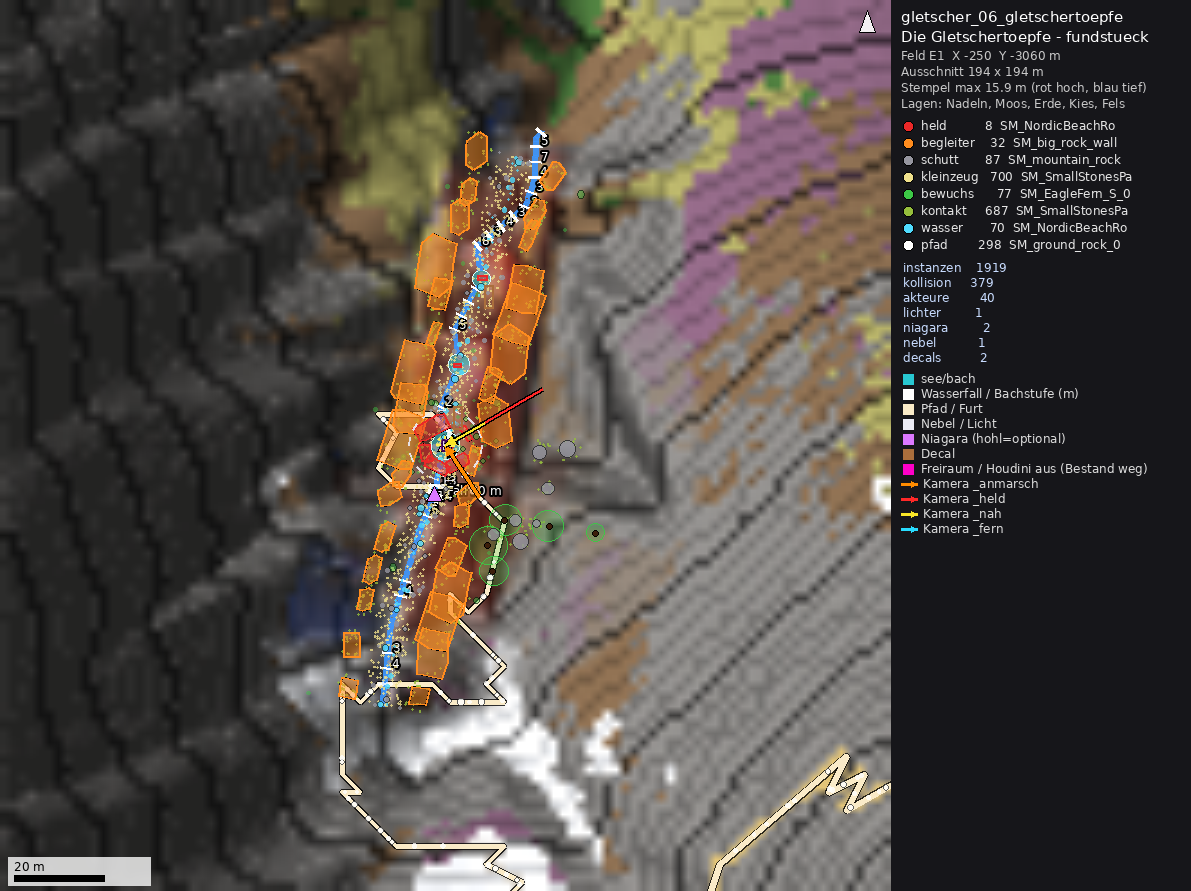
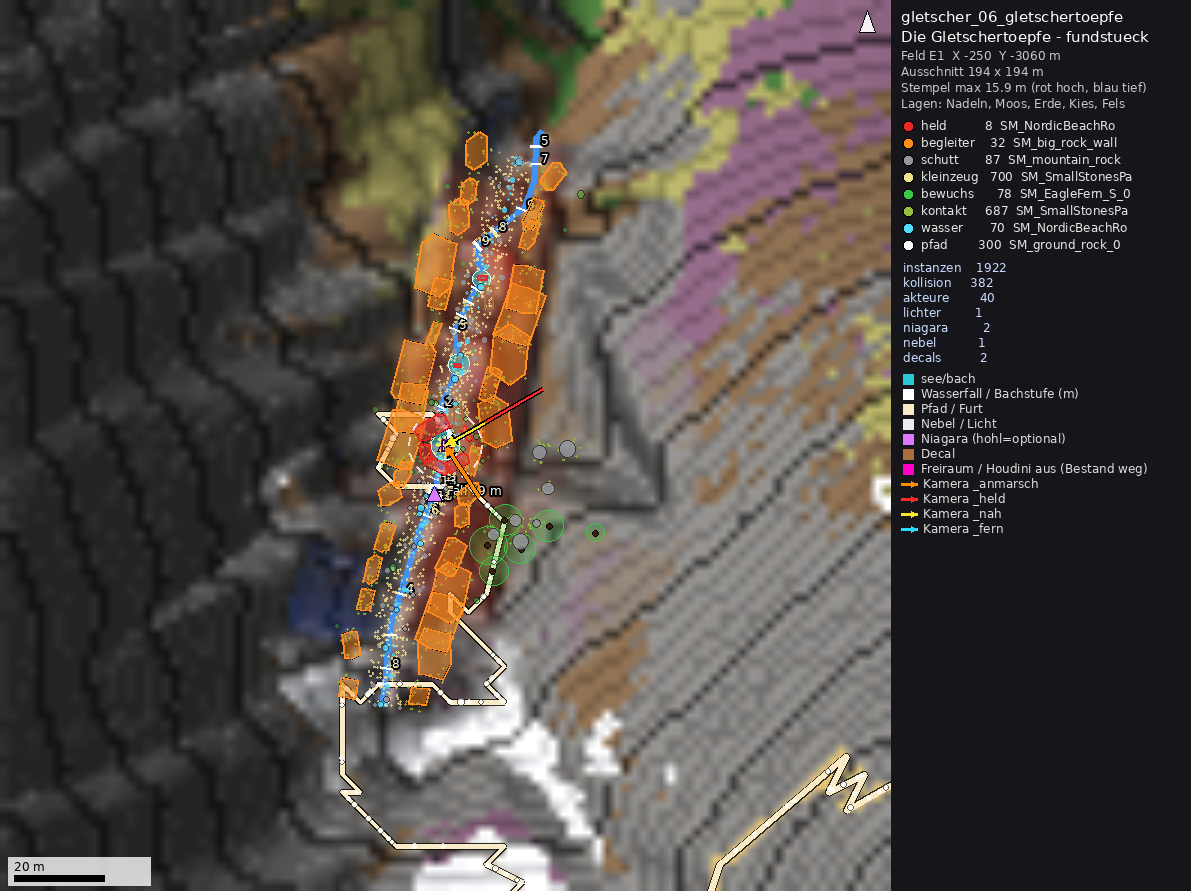
Auftrag 13f: Zwischenstand (WIP)
Claude-Session: https://claude.ai/code/session_012h1LYW6NJeQxhd7im8Kkes

diff --git a/recherche/antworten/skripte/sehens_lib/rezept.py b/recherche/antworten/skripte/sehens_lib/rezept.py
@@ -21,7 +21,6 @@ Richtungen ("rspec", Kompassgrad 0 = Nord, 90 = Ost): Zahl | "hangab" | "hangauf
 """
 
 import math
-import os as _os
 
 import numpy as np
 
@@ -536,7 +535,7 @@ class OrtKontext:
                 # 13f: nie neben den eigenen Lauf zurueck (Kehre/Schleife) - Abstand zu allen frueheren Punkten
                 Pa = np.asarray(alt + pts[:-1], np.float64)
                 dmin = np.min(np.hypot(kx[:, None] - Pa[None, :, 0], ky[:, None] - Pa[None, :, 1]), axis=1)
-                kz = np.where(dmin < 0.9 * schritt_m + 1.0, np.inf, kz)
+                kz = np.where(dmin < 0.9 * schritt_m + 1.5, np.inf, kz)
             if self.see:
                 # 13f A4: ein Bach laeuft nicht zurueck in ein geplantes Seebecken und nicht am Ufer entlang (Puffer
                 # 2 Zellen + 1 m um den Umriss) - der Abfluss fuehrt vom Auslass weg
@@ -727,6 +726,11 @@ class OrtKontext:
         nx_, ny_ = ty / tn, -tx / tn
         g_l = np.asarray(self.boden(xa + nx_ * du, ya + ny_ * du), np.float64)
         g_r = np.asarray(self.boden(xa - nx_ * du, ya - ny_ * du), np.float64)
+        # Reserve (Koordinator 13f): die Pruefstelle mischt bilinear die Zelle dahinter - auch dort muss der Ring
+        # (hoechstens WULST_MAX_M) den Spiegel erreichen
+        du2 = du + 0.75 * self.welt.zelle_m
+        g_l = np.minimum(g_l, np.asarray(self.boden(xa + nx_ * du2, ya + ny_ * du2), np.float64))
+        g_r = np.minimum(g_r, np.asarray(self.boden(xa - nx_ * du2, ya - ny_ * du2), np.float64))
         g_eff = np.minimum(g, np.minimum(g_l, g_r) + _bach.WULST_MAX_M - _bach.RING_UEBER_M - 0.05 +
                            _bach.EINBETTUNG_M)
         g_eff = np.maximum(g_eff, g - 2.0)      # hoechstens 2 m tiefer als die Mitte (Bach am Abbruch: Pruefer meldet)
@@ -740,6 +744,14 @@ class OrtKontext:
         # Furten/Schutz (A13): wo der Weg-/Ortsschutz den Stempel aufhebt, laeuft das Wasser flach ueber den Boden
         fs = self._schutz_faktor_bei(xa, ya)
         furt = fs < 0.98
+        # ebenso im Wasserschutz (Bestandswasser, z. B. Houdini-Gerinne ohne Netznamen): der Stempel ist dort
+        # aufgehoben, das Wasser laeuft flach ueber dem bestehenden Gerinne (nicht im Muendungskorridor)
+        fw = self._wasserschutz_bei(xa, ya)
+        im_bestand = (fw < 0.98) & ~furt
+        if ziel["art"] in ("bach", "fluss", "see", "teich"):
+            im_bestand &= sa < float(sa[-1]) - 8.0
+        furt_grund = np.where(furt, 0, np.where(im_bestand, 1, -1))
+        furt = furt | im_bestand
         boden_arr = np.where(furt, g + 0.03, -np.inf)
         W_boden = None
         if ziel.get("spiegel_m") is not None and ziel["art"] != "see_eigen":
@@ -798,6 +810,7 @@ class OrtKontext:
             self.stempel.bach_profil(np.stack([xa, ya], 1), sa, W, B, tiefe, ring_aus=ring_aus,
                                      tiefe_max_m=float(np.max(g - W)) + tiefe, tief_aus=tief_aus)
         furten = []
+        furt_gr = []
         if furt.any():
             k = 0
             while k < len(furt):
@@ -806,17 +819,31 @@ class OrtKontext:
                     while j + 1 < len(furt) and furt[j + 1]:
                         j += 1
                     furten.append((float(sa[k]), float(sa[j])))
+                    furt_gr.append("bestand" if furt_grund[k] == 1 else "weg")
                     k = j + 1
                 else:
                     k += 1
-            hinweise.append("%d Furt(en) im Weg-/Ortsschutz (Wasser flach ueber dem Boden)" % len(furten))
+            nb = furt_gr.count("bestand")
+            if len(furten) - nb:
+                hinweise.append("%d Furt(en) im Weg-/Ortsschutz (Wasser flach ueber dem Boden)" % (len(furten) - nb))
+            if nb:
+                hinweise.append("%d Stueck(e) im Wasserschutz des Bestands (flach ueber dem bestehenden Gerinne)" % nb)
         self.anker["bach_%s_anfang" % wid] = (float(pts[0][0]), float(pts[0][1]))
         self.anker["bach_%s_ende" % wid] = (float(pts[-1][0]), float(pts[-1][1]))
         self.bach_plan[wid] = {"pts": pts, "s": sa, "x": xa, "y": ya, "W": W, "stufen": stufen, "ziel": ziel,
                                "B": B, "tiefe": tiefe, "start_see": start_see, "end_see": end_see, "furten": furten,
-                               "offen_s": offen_s, "g_vor": g}
+                               "offen_s": offen_s, "g_vor": g, "furt_grund": furt_gr}
         for h in hinweise:
             self.melde(HINWEIS, "bach %s: %s" % (wid, h))
+
+    def _wasserschutz_bei(self, x, y):
+        """Wasserschutz-Faktor (0 = Bestandswasser hebt den Stempel auf) an Weltpunkten; ist_wasser/Korridore frei."""
+        g = self.r.get("gelaende") or {}
+        if not g.get("schutz", True) or g.get("wasser_frei", False):
+            return np.ones(np.shape(x))
+        aus = self._ausnahme_maske(wasser_ausnahmen=True)
+        f = self.stempel.schutz_faktor(float(g.get("schutz_weg_m", 3.0)), True, 4.0, aus, nur_wasser=True)
+        return _st._bilinear_fenster(f, self.stempel.fe, self.welt, x, y, 1.0)
 
     def _schutz_faktor_bei(self, x, y):
         """Schutzfaktor (0 = Weg-/Ortsschutz hebt den Stempel auf, 1 = frei) an Weltpunkten."""
@@ -938,11 +965,16 @@ class OrtKontext:
             Ln = _st.polylinie_laenge([[x, y]] + neu) if neu else 0.0
         if Ln < mehr_m - 1.0:
             ax, ay = (neu[-1] if neu else (x, y))
-            alt = np.asarray(pts + neu, np.float64)
+            alle = [list(map(float, q_[:2])) for q_ in pts + neu]
+            kum_ = list(_bach.bogen(np.asarray(alle, np.float64)))
             for q in self._tiefenlinie(ax, ay, mehr_m - Ln):
-                if np.min(np.hypot(alt[:, 0] - q[0], alt[:, 1] - q[1])) < 3.0:
-                    break           # Tiefenlinie laeuft zurueck an den eigenen Lauf
+                sq = kum_[-1] + math.hypot(q[0] - alle[-1][0], q[1] - alle[-1][1])
+                A_ = np.asarray(alle, np.float64)[np.asarray(kum_) < sq - 6.0]   # fruehere Stuecke, nicht die letzten 6 m
+                if len(A_) and np.min(np.hypot(A_[:, 0] - q[0], A_[:, 1] - q[1])) < 3.3:
+                    break           # Tiefenlinie laeuft zurueck an den eigenen Lauf (Kehre)
                 neu.append(q)
+                alle.append([float(q[0]), float(q[1])])
+                kum_.append(sq)
         out = [list(p) for p in pts]
         for p in neu:
             out.append([float(p[0]), float(p[1])])
@@ -1067,7 +1099,7 @@ class OrtKontext:
                 e = self._bach_eintrag(w)
                 if e is not None:
                     self.wasser.append(e)
-                    if w.get("furt") and (self.bach_plan.get(w.get("id")) or {}).get("furten"):
+                    if w.get("furt") and "weg" in ((self.bach_plan.get(w.get("id")) or {}).get("furt_grund") or []):
                         self._furt_steine(w)
             elif t == "wasserfall":
                 kante = self.linie(w["kante"])
@@ -1108,7 +1140,10 @@ class OrtKontext:
         kum = _bach.bogen(P)
         punkte = []
         ab = float(fr.get("abstand_m", 0.9))
-        for a_, b_ in pl["furten"]:
+        gruende = pl.get("furt_grund") or ["weg"] * len(pl["furten"])
+        for (a_, b_), gr_ in zip(pl["furten"], gruende):
+            if gr_ != "weg":
+                continue            # Trittsteine nur an Wegen/Orten, nicht im Bestandsgerinne
             sm = 0.5 * (a_ + b_)
             x, y = _bach.punkt_bei(P, kum, sm)
             x2, y2 = _bach.punkt_bei(P, kum, min(sm + 0.5, kum[-1]))
@@ -1175,9 +1210,6 @@ class OrtKontext:
         zz = float(self.welt.zelle_m)
         tol_ = 0.02 if zz <= 1.0 else 0.02 + 0.2 * (zz - 1.0)
         ueber = (bett - z > tol_) & frei
-        if ueber.any() and _os.environ.get("SEHENS_DBG_UEBER"):
-            for k_ in np.nonzero(ueber)[0]:
-                print("UEBER", wid, "s %.1f bett %.2f z %.2f" % (sk[k_], bett[k_], z[k_]), file=__import__("sys").stderr)
         if ueber.any():
             self.melde(WARNUNG, "bach %s: Bett an %d von %d Punkten ueber dem Spiegel (bis %.2f m) - Stempel geschwaecht?"
                        % (wid, int(ueber.sum()), len(sk), float((bett - z)[ueber].max())))
@@ -1207,12 +1239,15 @@ class OrtKontext:
                             "(Regelwerk Auftrag 15), groesste %.1f m" % (len(pl["stufen"]), mx))
         if pl["furten"]:
             e["furten"] = []
-            for a_, b_ in pl["furten"]:
+            gruende = pl.get("furt_grund") or ["weg"] * len(pl["furten"])
+            for (a_, b_), gr_ in zip(pl["furten"], gruende):
                 xa_, ya_ = _bach.punkt_bei(P, kum, a_)
                 xb_, yb_ = _bach.punkt_bei(P, kum, b_)
                 e["furten"].append({"von_cm": [round(float(xa_) * 100), round(float(ya_) * 100)],
                                     "bis_cm": [round(float(xb_) * 100), round(float(yb_) * 100)],
-                                    "grund": "Weg-/Ortsschutz (3 m): Wasser laeuft flach ueber den Boden (Furt)"})
+                                    "grund": "Weg-/Ortsschutz (3 m): Wasser laeuft flach ueber den Boden (Furt)"
+                                    if gr_ == "weg" else
+                                    "Wasserschutz des Bestands: Wasser laeuft flach ueber dem bestehenden Gerinne"})
         if pl["offen_s"] is not None:
             xo, yo = _bach.punkt_bei(P, kum, pl["offen_s"])
             e["muendung_offen_ab_cm"] = [round(float(xo) * 100), round(float(yo) * 100)]

diff --git a/recherche/antworten/skripte/sehens_lib/bach.py b/recherche/antworten/skripte/sehens_lib/bach.py
@@ -7,12 +7,14 @@ Ein Bach (Regel "wasser" mit typ "bach") wird in drei Schritten gebaut:
      Tiefenlinie weiter, bis ein Epic-Gewaesser erreicht ist, oder 'versickert' mit mindestens 25 m Laenge.
      Ein Bachende liegt nie unter dem Spiegel des Zielgewaessers.
   2. Spiegel als Treppe (A8, Regelwerk Auftrag 15 'gefaelle_regeln.json'): Becken (<= 3 % Gefaelle, >= 3 m lang,
-     Laenge nach stufen.abstand_L / becken.laenge_min) und Stufen (Lippe -> Fuss <= 1 m). Die Stufen stehen
-     explizit im Bach ("stufen": [{"lippe_cm", "fuss_cm", "fall_m", "art"}]) - keine Vorhaenge aus vielen kleinen
-     Faellen.
+     Laenge nach stufen.abstand_L / becken.laenge_min) und Stufen (Lippe -> Fuss <= 1 m). Ab 60 % Gefaelle eine
+     gebuendelte Fallkette (Koordinator 13f): Glieder ~8 m (kette_glied), Einzelfall >= 4 m, hoechstens 25 m, der
+     Fall folgt zwischen Lippe und Fuss der Flanke, dazwischen Becken >= 3 m. Die Stufen stehen explizit im Bach
+     ("stufen": [{"lippe_cm", "fuss_cm", "fall_m", "art"}]) - keine Vorhaenge aus vielen kleinen Faellen.
   3. Querprofil wie Auftrag 15b (A12): Wasserkante innen (0,3-0,5 m innerhalb der halben Breite, mind. 0,75 Zellen
      von der Mitte), Bett = Spiegel - Tiefe, Boeschung 35 Grad, Ufer beidseits >= Spiegel + 5 cm, Uferring auf
-     Spiegel + 0,15 m bis Netzrand + 1,5 m (hebt hoechstens 1 m). Neben dem Fuss einer Stufe gilt 1,5 m lang der
+     Spiegel + 0,2 m bis Netzrand + 1,5 m (hebt hoechstens 1,5 m; Koordinator 13f: Reserve); die letzte Zelle innen
+     an der Wasserkante wird bis zur Boeschung aufgefuellt. Neben dem Fuss einer Stufe gilt 1,5 m lang der
      Oberwasser-Spiegel (Seitenwand des Falls).
 Der Spiegel im Plan IST das gestempelte Bett + Tiefe (nicht das Bestandsgelaende).
 
@@ -249,7 +251,7 @@ def treppe(s, g, B, W0=None, W_boden=None, W_ende=None, start_fest=False, boden_
             # Fall ueber die steile Flanke: Fuss dort, wo die Huelle das Ziel (Lippe - Dg) erreicht; zwischen Lippe
             # und Fuss folgt der Spiegel der Huelle (Wasser faellt an der Flanke, kein Graben in die Wand); danach
             # Becken >= 3 m unter der Huelle
-            ziel = W[k - 1] - Dg
+            ziel = W[k - 1] - max(Dg - S_lok * BECKEN_MIN_M, 0.0)     # + Becken (3 m unter der Huelle) = Dg
             if W_boden is not None:
                 ziel = max(ziel, float(W_boden))
             unter = np.nonzero(M[k:] <= ziel + 1e-6)[0]

diff --git a/recherche/antworten/skripte/sehens_lib/stempel.py b/recherche/antworten/skripte/sehens_lib/stempel.py
@@ -396,7 +396,7 @@ class Stempel:
     def bach_profil(self, punkte_m, s_k, W_k, breite_m, tiefe_m, ring_aus=None, tiefe_max_m=2.0, name="bach_profil",
                     tief_aus=None):
         """Querprofil eines Bachs (Auftrag 15b/13f A12): Wasserkante innen, Bett = Spiegel - Tiefe, Boeschung 35 Grad,
-        Ufer beidseits >= Spiegel + 5 cm, Uferring Spiegel + 0,15 m (hebt <= 1 m). s_k/W_k: Spiegel entlang der
+        Ufer beidseits >= Spiegel + 5 cm, Uferring Spiegel + 0,2 m (hebt <= 1,5 m). s_k/W_k: Spiegel entlang der
         Bogenlaenge (Treppe mit Stufen). ring_aus: bool-Maske im Fenster ohne Uferring (Seen, Muendung)."""
         from . import bach as _b
         if self.ist_fertig:
@@ -427,6 +427,13 @@ class Stempel:
         if ring_aus is not None:
             rm &= ~ring_aus[box]
         neu = np.where(rm, np.maximum(neu, np.minimum(Rr, cur + _b.WULST_MAX_M)), neu)
+        # Wasserkante (letzte Zelle innen, Bach am Hang/auf Damm): liegt das Gelaende dort tiefer als die Boeschung,
+        # bis zur Boeschung auffuellen - sonst zieht die bilineare Abfrage am Netzrand das Ufer unter den Spiegel
+        wk = _b.wasserkante(breite_m, self.z)
+        km = innen & ~ring & (d >= wk - 0.75 * self.z)
+        if ring_aus is not None:
+            km &= ~ring_aus[box]
+        neu = np.where(km, np.maximum(neu, np.minimum(T, cur + _b.WULST_MAX_M)), neu)
         dl = self.delta[box]
         dl += neu - cur
         self.delta[box] = dl

diff --git a/recherche/antworten/skripte/sehens_lib/selbsttest.py b/recherche/antworten/skripte/sehens_lib/selbsttest.py
@@ -372,6 +372,19 @@ def _test_13f(welt2, ort, a):
                "A8 Becken zwischen den Stufen >= 3 m (min %.1f m) und <= 3 %% (max %.1f %%)"
                % (min([b1 - b0 for b0, b1 in becken] or [0]), 100 * max(gef or [0])))
 
+            # Koordinator 13f (Regelwerk 15): ab 60 % gebuendelte Fallkette statt einer Stufe alle 3,5 m -
+            # Einzelfall >= 4 m, hoechstens 25 m, dazwischen Becken >= 3 m (auf einer 70-%-Flanke, 60 m)
+            from . import bach as _bk
+            s_t = np.arange(0.0, 60.01, 0.5)
+            g_t = 100.0 - 0.7 * s_t
+            W_t, st_t = _bk.treppe(s_t, g_t, 1.5, W0=float(g_t[0] - _bk.EINBETTUNG_M), start_fest=True)
+            fa = [a - b for _, _, a, b in st_t]
+            bk = [st_t[k + 1][0] - st_t[k][1] for k in range(len(st_t) - 1)]
+            ok(len(st_t) >= 2 and min(fa) >= 4.0 - 1e-6 and max(fa) <= 25.0 + 1e-6 and min(bk) >= 3.0 - 1e-6
+               and len(st_t) < 60.0 / 3.5,
+               "Fallkette 70 %%: %d Faelle %.1f-%.1f m, Becken >= %.1f m (statt ~%d Stufen)"
+               % (len(st_t), min(fa or [0]), max(fa or [0]), min(bk or [0]), int(60.0 / 3.5)))
+
             class _Boden:
                 def hoehe(self, x, y):
                     return ctx.boden(x, y)

diff --git a/recherche/antworten/skripte/sehens_lib/PLANER_ANLEITUNG.md b/recherche/antworten/skripte/sehens_lib/PLANER_ANLEITUNG.md
@@ -310,19 +310,27 @@ Alles additiv; alte Rezepte laufen weiter, bekommen aber das neue Verhalten der 
     "auto"` sucht am Ende (halbe Breite + 6 m) und verlängert sonst entlang der Tiefenlinie (`verlaengern_m`, Standard
     40 m; D8 auf dem gefüllten Gelände). Ohne Ziel: `versickert` mit **mindestens 25 m**. Liegt ein Bestandsgewässer
     höher als der Bachanfang, ist es keine Mündung. Ein Bachende liegt nie unter dem Spiegel des Ziels (+ 2 cm).
+    `"muendung": "<Epic-Id>"` (z. B. ein Bestandsbach aus `baeche_alle.json`): der Lauf wird entlang der Tiefenlinie
+    verlängert und endet an der ersten Stelle dieses Gewässers, deren Spiegel er erreicht (Bachende nie darunter);
+    sonst WARNUNG „nicht erreichbar“. Kehrt der Abstieg an den eigenen Lauf zurück (Schleife), wird gekappt und aus
+    der Mulde heraus weiter verlängert (Gegenanstieg ≤ 0,5 m, nie neben dem eigenen Lauf).
     `"muendung_houdini": "<Netz>"` (oder `true` = Name lokal zuordnen) – explizit in einen sichtbaren Houdini-Lauf.
   - Spiegel als **Treppe** (Regelwerk Auftrag 15, `gefaelle_regeln.json`): Becken ≤ 3 %, ≥ 3 m (`becken.laenge_min`,
-    `stufen.abstand_L`), Stufen zwei Punkte (Lippe → Fuß 0,5 m). In `orte.json` stehen sie explizit:
+    `stufen.abstand_L`), Stufen zwei Punkte (Lippe → Fuß 0,5 m). Ab 60 % Gefälle **gebündelt** (Koordinator 13f,
+    Regelwerk 15): Fallkette mit Gliedern ~8 m, Einzelfall ≥ 4 m, höchstens 25 m je Fall, dazwischen Becken ≥ 3 m;
+    zwischen Lippe und Fuß folgt der Spiegel der Flanke (kein Graben in die Wand). In `orte.json` stehen sie explizit:
     `"stufen": [{"lippe_cm": [x, y, z], "fuss_cm": [x, y, z], "fall_m", "art": "schnelle|stufe|fall"}]`.
   - **Querprofil** (15b): Wasserkante innen, Bett = Spiegel − `tiefe_cm`, Böschung 35°, Ufer am Netzrand ≥ Spiegel
-    + 5 cm (Uferring bis + 0,5 m, hebt ≤ 1 m). Der Spiegel liegt 0,3 m unter dem Gelände (eingetieft); liegt eine
-    Uferseite tiefer, sinkt der Spiegel bis 2 m tiefer. Fremde Seen samt Uferring werden nicht angeschnitten.
+    + 5 cm (Uferring Spiegel + 0,2 … 0,5 m, hebt ≤ 1,5 m; die letzte Zelle innen an der Wasserkante wird bis zur
+    Böschung aufgefüllt). Der Spiegel liegt 0,3 m unter dem Gelände (eingetieft); liegt eine Uferseite tiefer (an der
+    Prüfstelle oder eine Zelle dahinter), sinkt der Spiegel bis 2 m tiefer. Fremde Seen samt Uferring werden nicht angeschnitten.
     `"profil": false` schaltet den Stempel für einen Bach ab (nur für Sonderfälle).
   - **Furt** (A13): Quert ein Bach die 3-m-Schutzzone eines Wegs/Orts, läuft er dort flach über den Boden
     (`"furten": [{"von_cm", "bis_cm"}]` im Eintrag); `"furt": {"palette", "groesse_m", "abstand_m"}` legt Trittsteine
     quer zum Bach (Ebene `pfad`).
   - Offene Mündung in Bestandswasser: im Mündungskorridor (letzte 8 m, halbe Breite + 1 m) gilt der Wasserschutz
-    nicht (`muendung_offen_ab_cm`).
+    nicht (`muendung_offen_ab_cm`); das Gelände am Bestandswasser ändert sich dort höchstens **± 0,5 m**, weich
+    auslaufend (2 m), nie in Weg-/Ortszonen (Koordinator 13f).
   - Neue Felder im Bach-Eintrag: `laenge_m`, `muendung_art` (`see_eigen|bach|fluss|see|teich|houdini|versickert`),
     `muendung_spiegel_cm`, `abfluss_von`, `stufen`, `furten`, `muendung_offen_ab_cm`.
 - **Seen**: `tiefe_m` = größte Tiefe nach dem Stempel (`tiefe_regel_m` = Rezept, falls abweichend). Seen < 10 m²
@@ -424,4 +432,4 @@ Beispiel: `hook_windwurf_anker` im Bergwald-Planer setzt die Stammfüße einer S
 - 13f: Ein Bach muss ganz im Geländefenster liegen (sonst gekappt, Mündung → `versickert`) – `fenster_m` groß genug
   wählen. Ketten von Töpfen mit `abfluss_von` + `bis_see` verbinden, nicht mit `von: "<see>_auslass"`.
 - 13f: Bäche nicht als `punkte` auf einen Grat oder an eine Abbruchkante legen – das Profil kann eine Uferseite nur
-  ≤ 1 m anheben; der Prüfer meldet „Ufer unter dem Spiegel“.
+  ≤ 1,5 m anheben; der Prüfer meldet „Ufer unter dem Spiegel“.

diff --git a/recherche/antworten/skripte/sehens_lib/README.md b/recherche/antworten/skripte/sehens_lib/README.md
@@ -181,6 +181,7 @@ Erweiterungen von `orte.json` (zusätzlich zu §2, von Ferats Werkzeugen ignorie
 | A11 | `stempel.Lagen` | Ränder ≥ 3 m, Pfadband 1 m Übergang, Ausblenden am Fensterrand |
 | A13 | `stempel.schutz_faktor`, `rezept._klein_see`, Prüfer | Schutzzone hart (Wege + Orte), Seen < 10 m² → Lage/Decal, Seeufer-FEHLER |
 | B | `rezept._houdini_ausblenden` | `bestand_ausblenden` mit `art: houdini` |
+| Koordinator | `bach.treppe`, `rezept.gelaende_bauen`/`_bach_ziel`/`_verlaengern`, `stempel.bach_profil` | Fallketten ab 60 % (Glieder ~8 m, 4–25 m, Becken ≥ 3 m), Mündungskorridor ± 0,5 m weich, `muendung: <Epic-Id>` mit Anschluss unterhalb, Uferring + 0,2 m / hebt ≤ 1,5 m, Schleifen-Kappung mit Weiterverlängerung |
 
 Neue Prüferregeln (`sehens_pruefen.pruefe_baeche`): Bachende am eigenen See unter dem Spiegel / Punkte im See (FEHLER),
 Abfluss unter dem Seespiegel (FEHLER), Bachende unter dem Spiegel des Epic-Ziels (FEHLER), `suesswasser_bestand`
@@ -212,7 +213,8 @@ Fälle (Uhrzeigersinn, fehlendes Niagara, Budget ≠ Ebene, falsche Anzahl, unbe
 synthetischer 1-m-Ordner für den Lader (A1 Kennzahl, A2 `baeche_alle.json`), Feldgrenze (A10), Baumfuß am Hang (A3),
 kleine synthetische 1-m-Welt mit Kerbtal, See, Zulauf und Abfluss (A4 Ende/Anfang am Seespiegel, A8 Stufen/Becken,
 A12 Querprofil 0 FEHLER + absichtlich kaputte Fälle, A13 Furt mit Trittsteinen und harte Schutzzone am Weg) und
-kleine/große Senke (A5). Laufzeit ~40 s mit Cache.
+kleine/große Senke (A5), Fallkette auf einer 70-%-Flanke (Koordinator: Einzelfall 4–25 m, Becken ≥ 3 m).
+Laufzeit ~40 s mit Cache.
 
 ## Bekannte Grenzen
 

diff --git a/recherche/antworten/skripte/sehens_heide/README.md b/recherche/antworten/skripte/sehens_heide/README.md
@@ -43,6 +43,10 @@ Norden und Süden/Südwesten; Klammtore aus Riesen-Wollsäcken und dichte Gehöl
 - Wollsackfall ersetzt den Bestandsbach `B_R2_R_P3_P0_01` (Ort IST dieses Wasser): **E11** Feld `ersetzt_bestandsbach`
   (p0 → p3) → `orte.json` `bestand_ausblenden`. Sohle in drei Stufen (absolute Höhen aus den 2-m-Daten – im 1-m-Lauf
   prüfen, E41: jede Stufe > 0,8 m), Wassermaterial nur als `material_hinweis` (E43: Pfad nicht belegt).
+- **13f (Koordinator, Frage 5):** der `auslauf` läuft von der Gumpe entlang der Tiefenlinie und schließt an
+  `B_R2_R_P3_P0_01` unterhalb des ersetzten Abschnitts an (`muendung: "B_R2_R_P3_P0_01"`, ~87 m, Bachende nie unter
+  dessen Spiegel); `ersetzt_bestandsbach` reicht von der Gumpe bis `bach_auslauf_ende`. Fall 3 misst über dem
+  Wasserspiegel des Klammbachs 0,8 m (WARNUNG bleibt; Sohle 1,1 m wie geplant).
 - Tor-Stapel und Wackelstein ruhen per `z_bezug` aufeinander (z_frei) – Fugen im Editorbild prüfen.
 - `senke_begruendung`: Burg (Verwitterungsschüsseln), Wacholder (Schlatts), Kolk (Regenmoor), Wackelstein (Felsenkessel),
   Totengrund (Nivationsmulde), Windkante (Deflationsmulde).

diff --git a/recherche/antworten/skripte/sehens_bergwald/README.md b/recherche/antworten/skripte/sehens_bergwald/README.md
@@ -77,4 +77,5 @@ Material-Instanzen 5 von 6: `MI_EL_SW_Verkohlt`, `_Klammfels_Nass`, `_Granit_Moo
   Houdini-Lauf `R_M2_P0__WASSER` (Anker `rinne_w` ohne Wasserausschluss) und endet auf dem Umriss, der Abfluss läuft im
   alten Lauf nach Osten (`muendung_houdini`); das Houdini-Netz ist im See und in beiden Bachkorridoren ausgeblendet
   (`houdini_ausblenden` → `bestand_ausblenden` art `houdini`); `ist_wasser_r_m` 68; `tiefe_m` steht nach dem Stempel in
-  `orte.json`. Klemmblock-Klamm: Fenster 130 m, Klammbach endet im bestehenden Houdini-Gerinne (`muendung_houdini: true`).
+  `orte.json`. Klemmblock-Klamm: Fenster 130 m; der Klammbach hat nach dem Koordinator-Entscheid (13f, Frage 1/3 offen) `muendung: auto`
+  – bis der Netzname des Houdini-Gerinnes lokal bekannt ist, endet er `versickert` (35 m, am Fenster) bzw. am nächsten Epic-Bach.

diff --git a/recherche/antworten/skripte/sehens_lava/README.md b/recherche/antworten/skripte/sehens_lava/README.md
@@ -83,5 +83,7 @@ Alle Orte unter §9. Je Feld: B6 3 208, C5 5 900, C6 8 694, D6 617 Instanzen. Ma
   und Cliff-Netz verschiedene Textursätze, gilt das MI nur für die Pillars-Netze.
 - **E17:** Der Gipfelsteig (`lava_pfad_gipfelsteig`) wird neu aus Ferats Serpentinen-Werkzeug gerechnet (`status` in
   `pfade_zusatz`); das Bodenband folgt bis dahin den Phase-1-Kehren. E40 (`SM_lava_disc`-Material) nur bei Befund.
+- **13f:** lava_03: das Rinnsal folgt als `punkte` der Tiefenlinie von der Kegelflanke in die Lavasand-Senke (~28 m,
+  versickert; der steilste Abstieg stockte nach 21–24 m in den flachen Buckeln).
 - **13f:** lava_01: Senke hinter der Stirn war keine Absicht (Kerben sollen zur Front hin fallen) → `senken_fuellen` bis
   400 m²/1,5 m.

diff --git a/recherche/antworten/skripte/sehens_canyon/README.md b/recherche/antworten/skripte/sehens_canyon/README.md
@@ -45,4 +45,5 @@ Je Feld: C4 4 690, D4 12 397 Instanzen. Verdeckung (Fundstücke 04–08): alle *
 - Gewollte Hohlformen (Spalt-Kolk 04, Kesselkolke 05, Tinajas 06, Alkovenkolke 07, Simsmulden 03) tragen `senke_begruendung`.
 - `uldubik_tier_0`/`uk5ebcp_tier_0` (13d unvollständig) werden nicht gesetzt (Lib meldet sie jetzt als FEHLER).
 - Hollowstone Canyon (Kauf offen) und Wadi Rum/Procedural Rocks stehen weiter in `assets_wunsch`.
-- **13f:** `ranken` mit `z_frei` (A6).
+- **13f:** `ranken` mit `z_frei` (A6). canyon_07: der Abfluss der Gumpe folgt der geplanten `abflusslinie` und versickert
+  nach ~30 m vor der Weg-Schutzzone (vorher lief der steilste Abstieg in den Alkoven zurück und versickerte nach 12 m).
